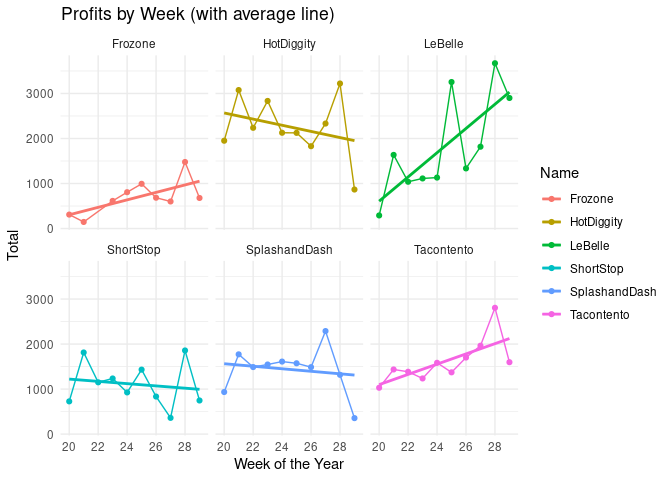
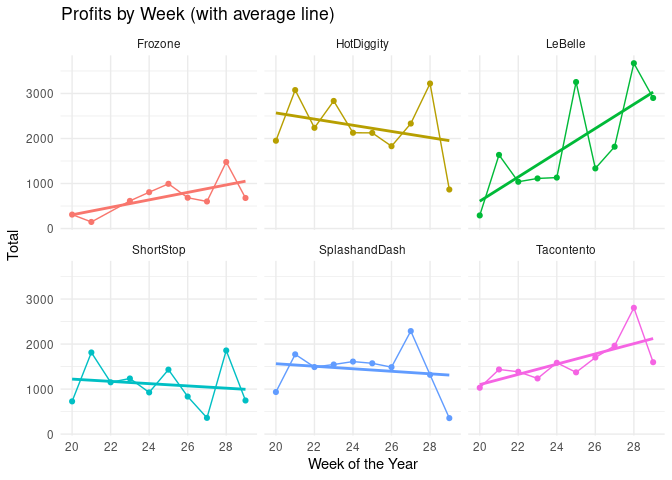
Centered all graphs, fixed descriptions

diff --git a/case-study-8.md b/case-study-8.md
@@ -2,7 +2,7 @@ BYU-Idaho’s Shark Tank: Comparing Which Student-Run Business Is Worth
 Investing In
 ================
 Ricky Warner
-2020-11-08
+2020-11-10
 
 # Background
 
@@ -17,6 +17,8 @@ was a potential investor looking to invest in one of the student run
 businesses. Below details some of the insights I gained researching each
 company as well as my final pick if I were to invest in one of the
 businesses.
+
+# Cleaning
 
 ``` r
 # Cleaning Data
@@ -61,19 +63,16 @@ day <- positive %>% # Grouip transactions by company and day
 month <- positive %>% # Group transactions by company and month 
   group_by(Name, month) %>%
   summarise(total = sum(Amount))
-
-hour <- positive %>%
-  group_by(Name, hour) %>%
-  summarise(total = sum(Amount))
 ```
 
 ## Returns
 
 All of the student-run businesses experienced returns. HotDiggity has
-the highest returns at a grand total of 1476.63 while Frozone holds the
-lowest total of 569.14. While this could suggest that HotDiggity has the
-highest customer dissatisfaction rate, it is important to remember that
-HotDiggity could be offering a more expensive product.
+the highest returns at a grand total of $1476.63 while Frozone holds the
+lowest total of $569.14. However, we cannot conclude from this alone
+that HotDiggity has the higest customer dissatisfaction. It could simply
+be they offer a more expensive product. A better way to gain insights
+into the return is by the number of returns.
 
 ``` r
 negatives.total %>% # Change this to be a bar chart containing the totals for each company 
@@ -88,14 +87,12 @@ negatives.total %>% # Change this to be a bar chart containing the totals for ea
 
 <img src="case-study-8_files/figure-gfm/plot_data-1.png" style="display: block; margin: auto;" />
 
-In order to get a better understanding of the returns, we’ll need
-compare returns per company by total count. A count of all returns by
-company reveals that while Hotdiggity is indeed the leader for returns
-at 70 returns; however, Frozone is actually not far behind it with a
-grand total of 56 returns. This graph reveals that Tacento is actually
-the lowest company for returns with a grand total of 41 returns. This
-could suggest that Tacento had the highest customer satisfaction with
-their product.
+A count of all returns by company reveals that while Hotdiggity is
+indeed the leader for returns at 70 returns; however, Frozone is
+actually not far behind it with a grand total of 56 returns. This graph
+reveals that Tacento is actually the lowest company for returns with a
+grand total of 41 returns. This could suggest that Tacento had the
+highest customer satisfaction with their product.
 
 ``` r
 negatives.count %>%
@@ -114,8 +111,8 @@ negatives.count %>%
 ## Total Revenue Generated
 
 Probably one of the most important indicators of how successful a
-company is is revenue generated. According to the graph below, it
-appears that HotDiggity leads in terms of total revenue generated.
+company is is revenue generated. According to the graph below,
+HotDiggity leads in terms of total revenue generated.
 
 ``` r
 positive %>%
@@ -136,13 +133,12 @@ positive %>%
 
 # Forecasting Future Growth
 
-Another important factor that we need to consider in evaluation of
-companies is overal trend. While their sales might be strong, there
-might be evidence of lowering profits which isn’t good for the overall
-company. From the graph below, it appears that Frozone, LaBelle, and
-Tacento show the strongest signs of growth and theirfore would be a
-safer inverstment. The others appear to have negative trends which
-doesn’t look good.
+Another important consideration for the evaluation of companies is
+overall trend. While their sales might be strong, there might be
+evidence of lowering profits which isn’t good for the overall company.
+As shown by the graph below, Frozone, LeBelle, and Tacento show the
+strongest signs of growth and therefore would be a safer investment. The
+others concerningly have negative forecasts.
 
 ``` r
  week %>%
@@ -155,7 +151,8 @@ doesn’t look good.
   facet_wrap(~Name) + 
    geom_smooth(aes(week, total, col = Name), method = "lm", se = F) +
    scale_x_discrete(limits = seq(20,28,2)) +
-   theme_minimal()
+   theme_minimal() + 
+  theme(legend.position = "none")
 ```
 
 <img src="case-study-8_files/figure-gfm/unnamed-chunk-3-1.png" style="display: block; margin: auto;" />
@@ -164,32 +161,30 @@ doesn’t look good.
 
 After carefully reviewing the data, I have come to the conclusion that
 out of all of the companies that were reviewed, I would invest in
-LaBelle. LaBelle was in the middle with total of 57 returns. It also had
+LeBelle. LeBelle was in the middle with total of 57 returns. It also had
 the second highest revenue generated at 18185.55. The most promising
 factor in this decision is the forecast. According to the forecast,
-LaBelle had the most promsing long term growth, suggesting outpacing
-even HotDiggity in terms of total revenue.
+LeBelle had the most promsing long term growth, theoretically even
+outpacing HotDiggity in terms of total revenue.
 
 # Other Information We Would Need To Make A Decision
 
 While the data presents a nice picture into the finanicials of the
 company. There is additional information that would be greatly
 beneficial in determining whether or not the company is worth investing
-in:
-
-<br> Profit Margins: We currently have no idea how much it costs to make
-each product. This is very critical as even if the company is making
-enough sales, it might not be enough to cover total company expenses.
-<br> Employees: We would need an understanding how much we would have to
-pay each employees as well as how many employees the company would need
-to meet customer demand. <br> Customer Reviews: It would be beneficial
-to have some customer feedback as to what they like and dislike. A
-rating system like stars could also be beneficial to provide a
-quantitative understanding of how popular the company is as well. <br>
-Expenses/Debt: How is the company’s financial standing? Does it have a
-healthy amount of debt? How much have they paid off the equipment? Are
-there any routine or upcoming investments that will need to be made in
-order to help the growth of the company?
+in: <br> <br> Profit Margins: We currently have no idea how much it
+costs to make each product. This is very critical as even if the company
+is making enough sales, it might not be enough to cover total company
+expenses. <br> Employees: We would need an understanding how much we
+would have to pay each employees as well as how many employees the
+company would need to meet customer demand. <br> Customer Reviews: It
+would be beneficial to have some customer feedback as to what they like
+and dislike. A rating system like stars could also be beneficial to
+provide a quantitative understanding of how popular the company is as
+well. <br> Expenses/Debt: How is the company’s financial standing? Does
+it have a healthy amount of debt? How much have they paid off the
+equipment? Are there any routine or upcoming investments that will need
+to be made in order to help the growth of the company?
 
 # Bonus: Hourly Sales Analysis
 
@@ -198,15 +193,21 @@ sales on Fridays over any other day. The only exception is SplashandDash
 which appears to have Thursday as their most impressive day.
 
 ``` r
-positive %>%
-  filter(day != "Sun" & day != "Sat") %>%
-  group_by(day, Name) %>%
-  summarize(total = sum(Amount)) %>%
-  ggplot() +
-  geom_bar(aes(day, total, fill = day), stat = "identity") + theme_minimal() +
-  labs(x = "Day of the Week",
-       y = "Total Amount Earned (in dollars)",
-       title = "Total Profits for Each Company") + facet_wrap(~Name)
+hour <- positive %>%
+  filter(Name == "LeBelle") %>%
+  group_by(hour) %>%
+  summarise(total = sum(Amount)) %>%
+  mutate(hour = as.character(hour))
+
+
+hour %>%
+  ggplot() + 
+  geom_bar(aes(hour, total, fill = hour), stat = "identity") + 
+  labs(x = "Hour",
+       y = "Revenue",
+       title = "Hourly Analysis of LeBelle") + 
+  theme_minimal() +
+  theme(legend.position = "none")
 ```
 
 <img src="case-study-8_files/figure-gfm/unnamed-chunk-4-1.png" style="display: block; margin: auto;" />
